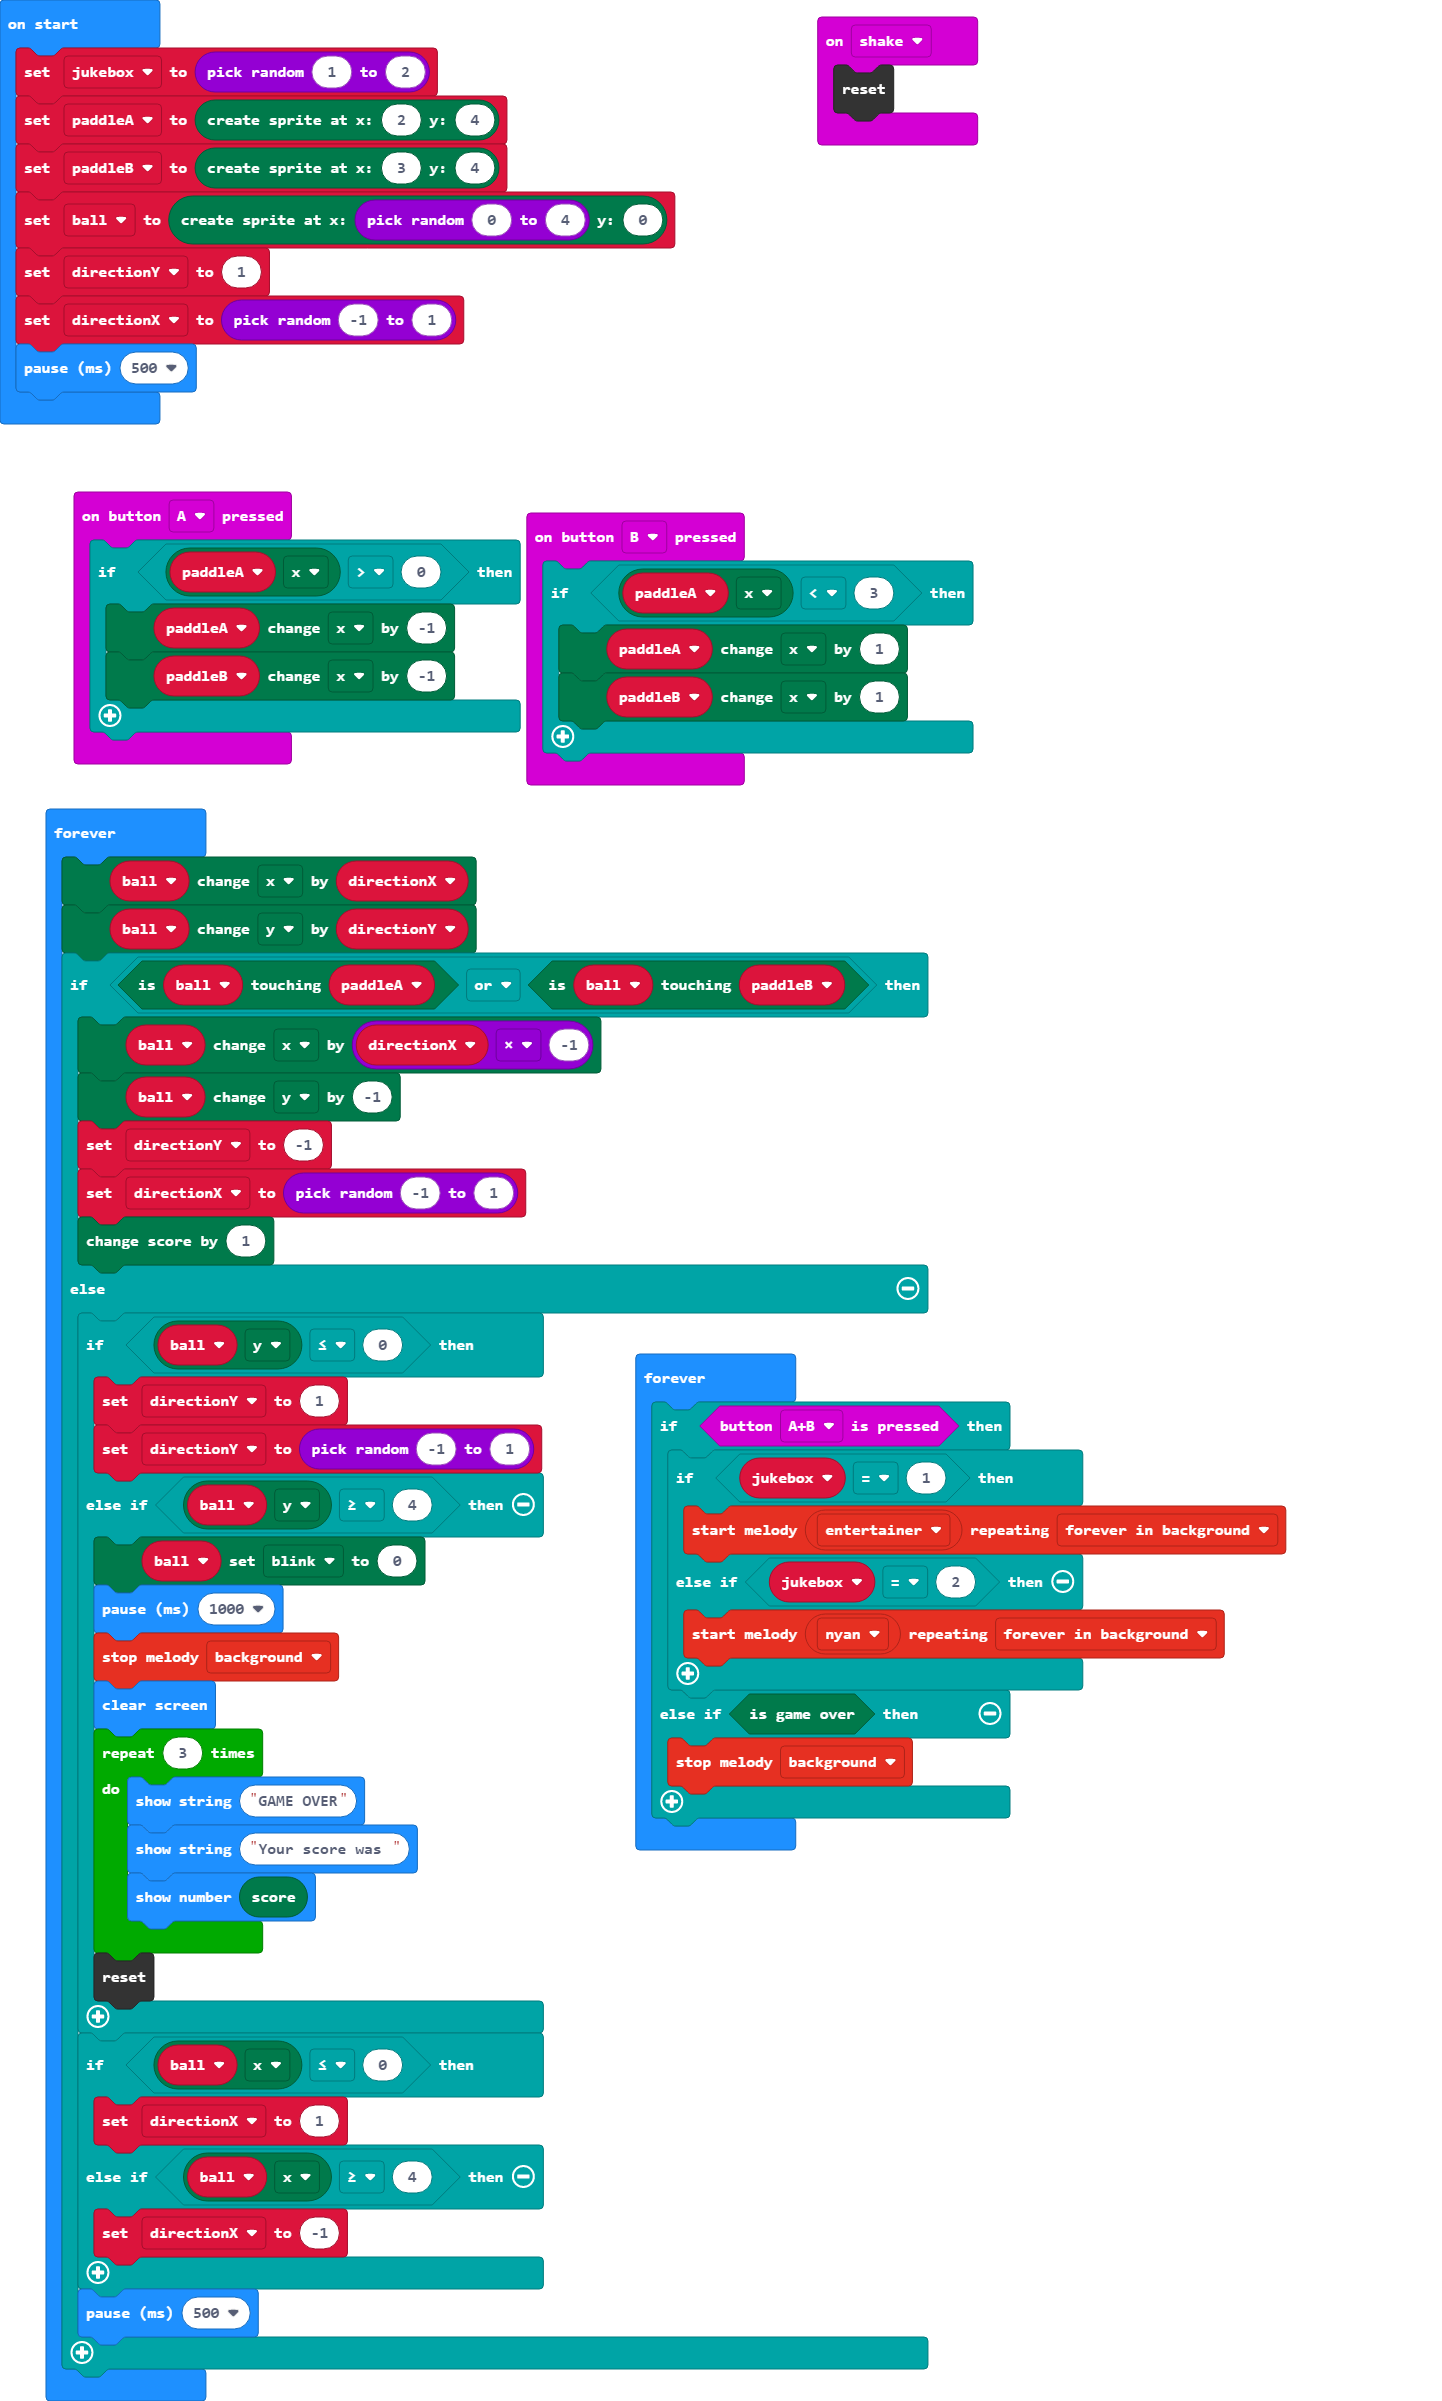
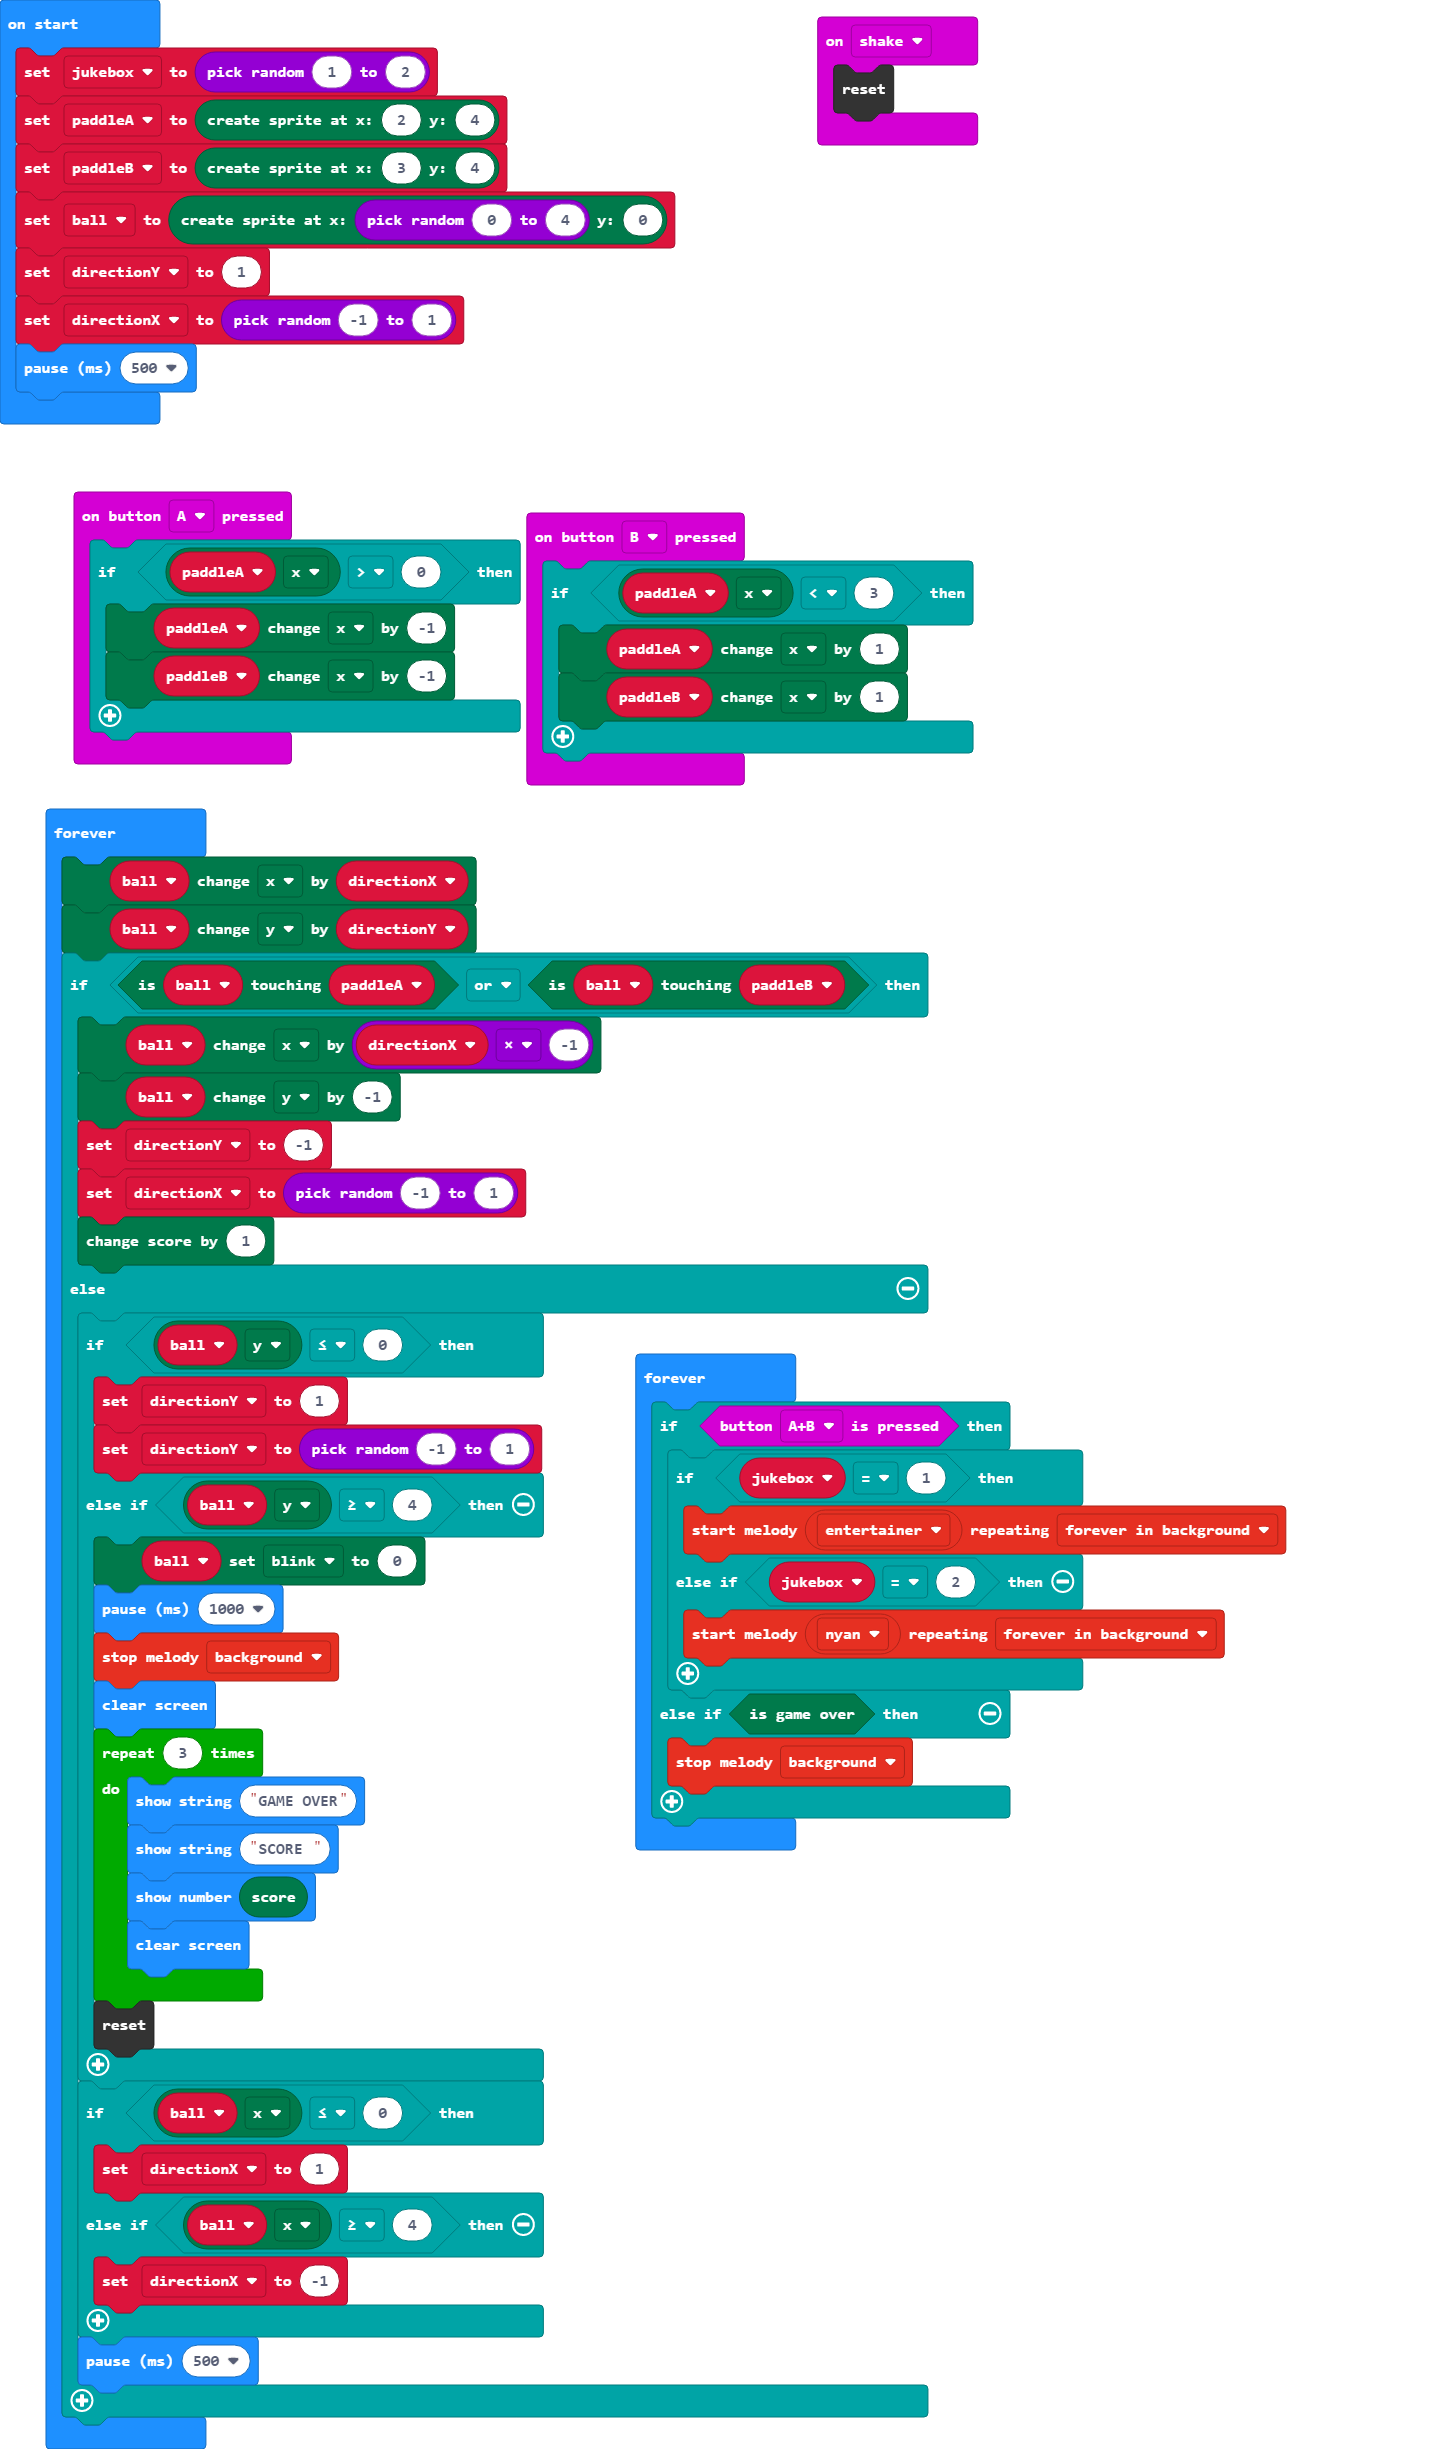
Update main.blocks, main.ts

Changed region(s): [[0.0, 0.0, 0.905, 0.9683], [0.5929, 0.0, 0.6553, 0.0625]]

diff --git a/main.ts b/main.ts
@@ -42,8 +42,9 @@ basic.forever(function () {
             basic.clearScreen()
             for (let index = 0; index < 3; index++) {
                 basic.showString("GAME OVER")
-                basic.showString("Your score was ")
+                basic.showString("SCORE ")
                 basic.showNumber(game.score())
+                basic.clearScreen()
             }
             control.reset()
         }
